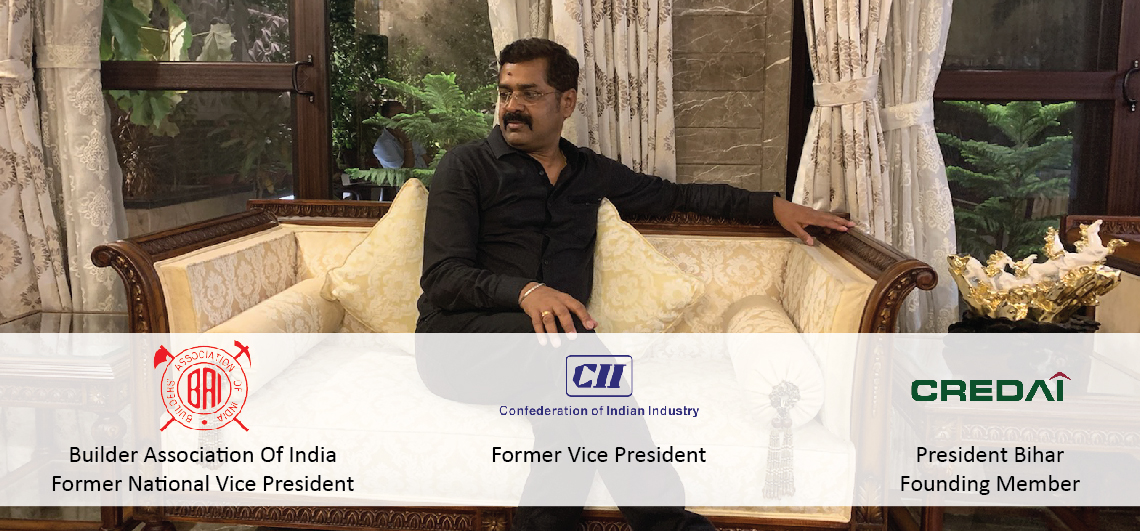
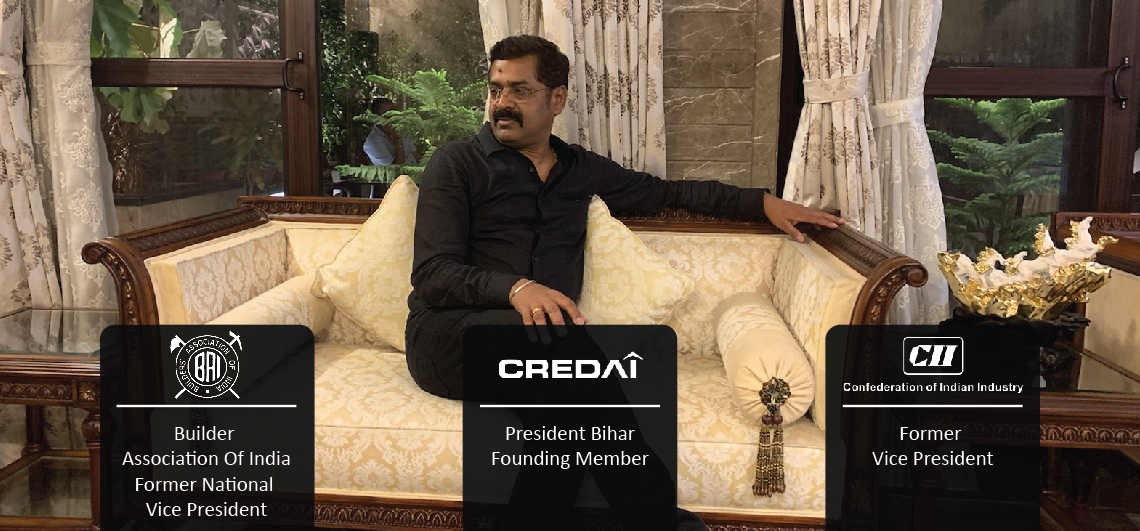
Updated carousel images on index.html

diff --git a/index.html b/index.html
@@ -74,7 +74,10 @@
             left: -2px;
         }
         
-        header .md a.foo img{margin-top: -26px;}
+        header .md a.foo img {
+            margin-top: -26px;
+        }
+        
         .main-preloader {
             position: fixed;
             width: 100%;
@@ -99,7 +102,7 @@
         
         .main-preloader .preloader-percentage span {
             display: inline-block;
-            float:none;
+            float: none;
             font-size: 50px;
         }
         
@@ -327,13 +330,13 @@ src="https://www.facebook.com/tr?id=1083892991650340&ev=PageView&noscript=1"
                     </li>
                     <li>
                         <a href=" ">
-                            <div style="width:100%; height:100%; background:url( './assets/pic3.jpg') no-repeat center center; background-size:cover; "><img src="./assets/pic3.jpg ">
+                            <div style="width:100%; height:100%; background:url( './assets/pic3.jpg') no-repeat center center; background-size:cover; "><img src="./assets/carousel_final4.jpg ">
                         </a>
 
                     </li>
                     <li>
                         <a href=" ">
-                            <div style="width:100%; height:100%; background:url(./assets/pic5.jpg) no-repeat center center; background-size:cover; "><img src="./assets/pic5.jpg " alt="BrandXReport " style="opacity:0; " /></div>
+                            <div style="width:100%; height:100%; background:url(./assets/pic3.jpg) no-repeat center center; background-size:cover; "><img src="./assets/pic3.jpg " alt="BrandXReport " style="opacity:0; " /></div>
                         </a>
 
                     </li>
@@ -471,7 +474,7 @@ src="https://www.facebook.com/tr?id=1083892991650340&ev=PageView&noscript=1"
                                 </div>
                             </a>
                         </div>
-                        
+
                         <!-- <div class="clear "></div> -->
                         <div class="spreadApart " style="width:100%; height: 50px;"></div>
                     </div>
@@ -530,10 +533,10 @@ src="https://www.facebook.com/tr?id=1083892991650340&ev=PageView&noscript=1"
                                 </div>
                             </a>
                         </div>
-                        
+
                         <!-- <div class="spreadApart " style="width:100%; height: 540px;"></div> -->
                         <div class="clear "></div>
-               
+
                     </div>
                 </div>
             </div>
